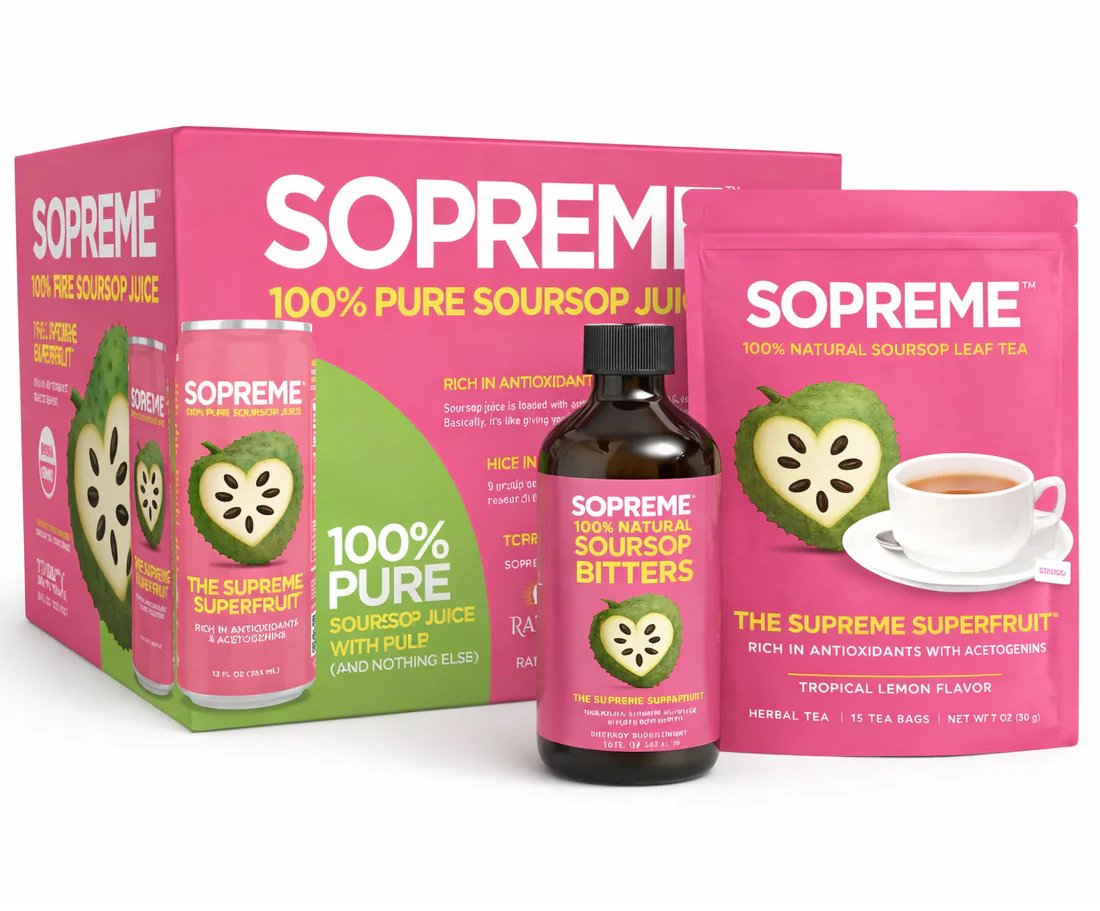
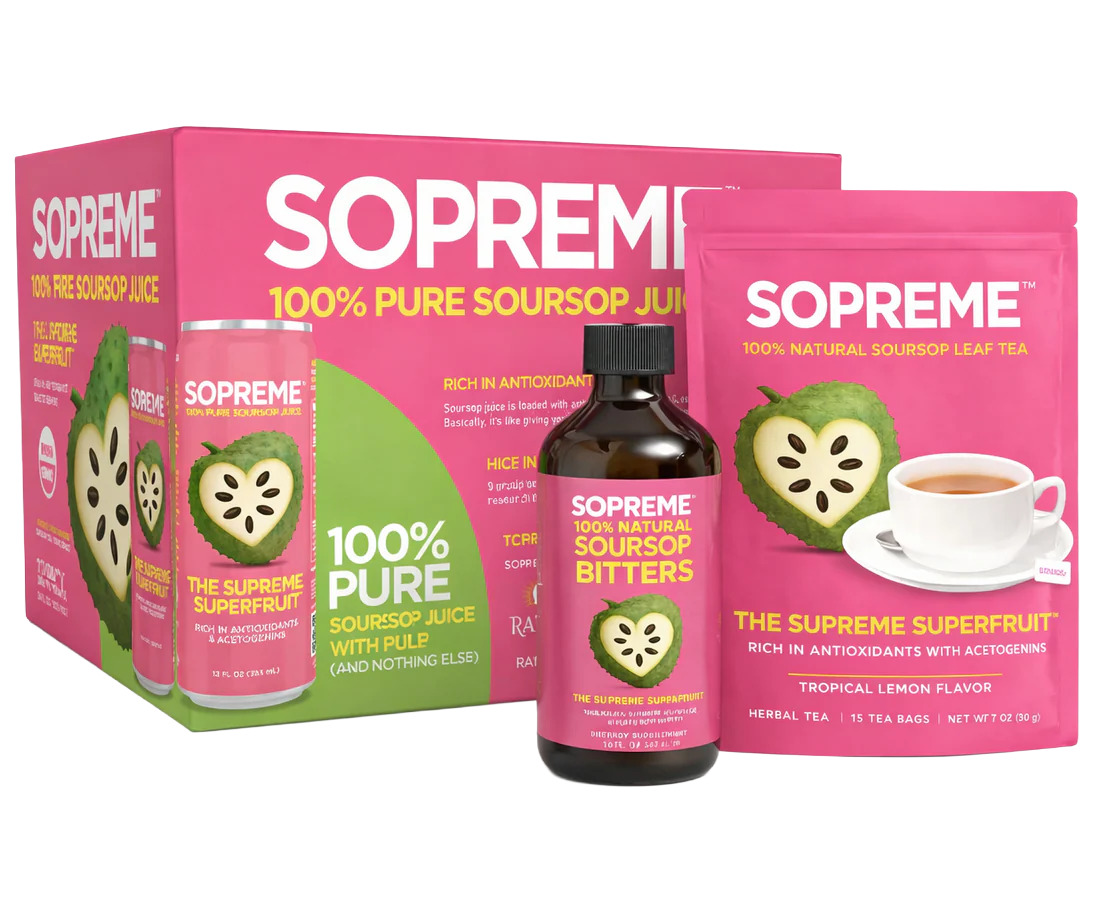
Add 12-pack front image to gallery, fix complete collection image path

diff --git a/shop.html b/shop.html
@@ -771,7 +771,7 @@
     <!-- Soursop Juice 12-Pack -->
     <div class="product-card" data-category="juice" data-price="44.99" onclick="openProduct('juice-12')">
       <div class="card-img-wrap">
-        <img src="products/sopreme-soursop-juice-12-pack-cans.jpg.png" alt="Soursop Juice 12-Pack"
+        <img src="products/sopreme-12-pack-nobg.png" alt="Soursop Juice 12-Pack"
              onerror="this.src=''; this.parentElement.style.background='#fce4ef'">
       </div>
       <div class="card-body">
@@ -1139,6 +1139,7 @@ const PRODUCTS = {
     price: 44.99, pricePer: '$3.75 / can',
     variantId: 48197826576634,
     images: [
+      'products/sopreme-12-pack-nobg.png',
       'products/sopreme-soursop-juice-12-pack-cans.jpg.png',
       'products/sopreme-soursop-juice-12-pack-box.jpg.png',
       'products/sopreme-soursop-juice-packaging-detail-12-pack.jpg.png',
